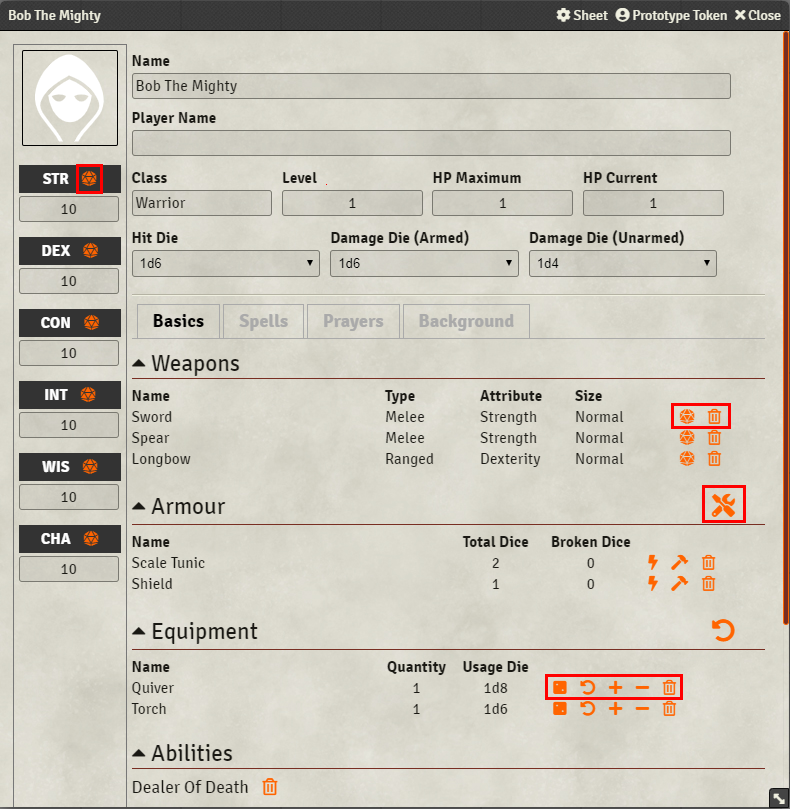
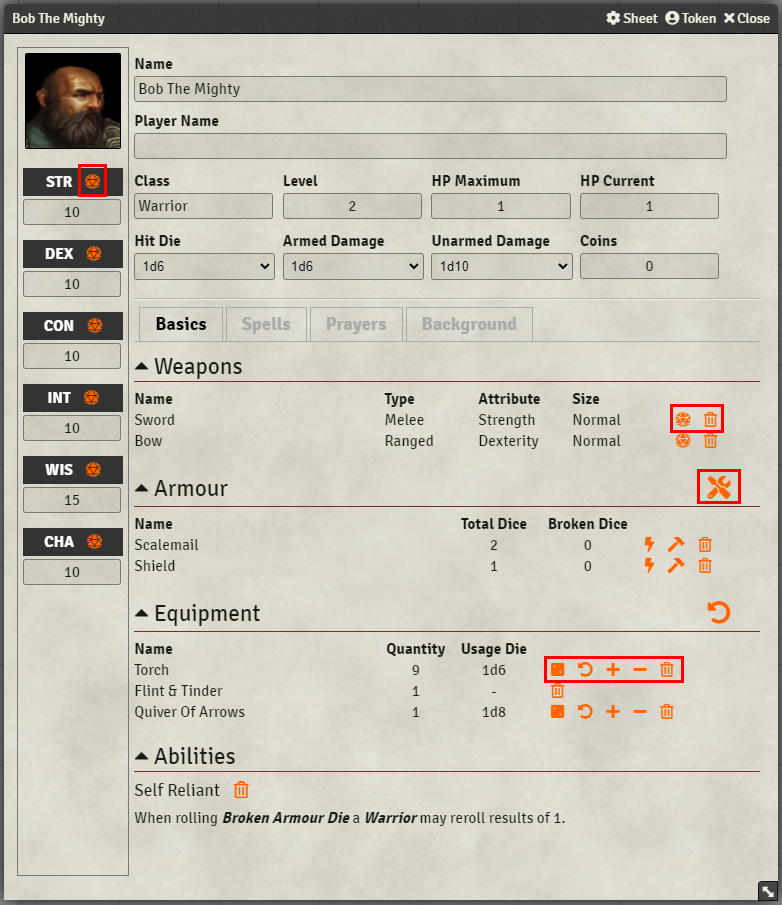
Changes for version 0.3.2.

diff --git a/module/chat_messages.js b/module/chat_messages.js
@@ -60,6 +60,9 @@ export function logAttackRoll(actorId, weaponId, shiftKey=false, ctrlKey=false) 
                         }
                     }
 
+                    if(game.dice3d) {
+                        game.dice3d.showForRoll(roll);
+                    }
                     showMessage(actor, "systems/bh2e/templates/messages/attack-roll.hbs", data);
                 });
         } else {
@@ -87,7 +90,7 @@ export function logAttributeTest(actorId, attribute, shiftKey=false, ctrlKey=fal
             roll = new Roll(generateDieRollFormula());
         }
         roll.evaluate()
-            .then(() => {
+            .then((roll) => {
                 data.roll = {formula: roll.formula,
                              labels:  {title: interpolate("bh2e.messages.titles.attributeTest", {attribute: data.attribute})},
                              result:  roll.total,
@@ -95,6 +98,9 @@ export function logAttributeTest(actorId, attribute, shiftKey=false, ctrlKey=fal
 
                 data.roll.success = (actor.data.data.attributes[attribute] > data.roll.result);
                 data.roll.labels.result = interpolate(data.roll.success ? "bh2e.messages.labels.success" : "bh2e.messages.labels.failure");
+                if(game.dice3d) {
+                    game.dice3d.showForRoll(roll);
+                }
 
                 showMessage(actor, "systems/bh2e/templates/messages/attribute-test.hbs", data);
             });
@@ -123,6 +129,9 @@ export function logDamageRoll(event) {
         roll.evaluate()
             .then(() => {
                 data.roll.result = roll.total;
+                if(game.dice3d) {
+                    game.dice3d.showForRoll(roll);
+                }
                 showMessage(actor, "systems/bh2e/templates/messages/damage-roll.hbs", data)
             });
     } else {
@@ -154,7 +163,11 @@ export function logUsageDieRoll(itemId) {
 
                 roll.evaluate()
                     .then(() => {
-                message.roll.formula = roll.formula;
+                        if(game.dice3d) {
+                            game.dice3d.showForRoll(roll);
+                        }
+
+                        message.roll.formula = roll.formula;
                         message.roll.result  = roll.total;
 
                         if(roll.total < 3) {

diff --git a/bh2e.js b/bh2e.js
@@ -41,6 +41,27 @@ async function preloadHandlebarsTemplates() {
 async function runMigrations() {
     console.log("Running migrations...");
     updateCreatureHitPoints(game.actors);
+    updateCharacterCoins(game.actors);
+}
+
+async function updateCharacterCoins(actors) {
+    actors.forEach((actor) => {
+        if(actor.type === "character") {
+            let coins  = actor.data.data.coins;
+            let update = false;
+
+            console.log(`Checking if '${actor.name}' needs a coins update.`);
+            if(!coins || !Number.isNumeric(coins)) {
+                coins  = (coins ? parseInt(coins) : 0);
+                update = true;
+            }
+
+            if(update) {
+                console.log(`Updating coins for '${actor.name}'.`);
+                actor.update({data: {coins: coins}});
+            }
+        }
+    });
 }
 
 async function updateCreatureHitPoints(actors) {

diff --git a/templates/sheets/character-sheet.html b/templates/sheets/character-sheet.html
@@ -35,7 +35,7 @@
                 </field>
             </div>
 
-            <div class="bh2e-grid bh2e-grid-3-col">
+            <div class="bh2e-grid bh2e-grid-4-col">
                 <field class="bh2e-field">
                     <label for="data.hitDie" class="bh2e-label">{{localize "bh2e.fields.labels.hitDie"}}</label>
                     <select name="data.hitDie" class="bh2e-select">
@@ -67,6 +67,11 @@
                   {{/each}}
                   {{/select}}
                     </select>
+                </field>
+
+                <field class="bh2e-field">
+                    <label class="bh2e-label" for="data.coins">{{localize "bh2e.fields.labels.coinsValue"}}</label>
+                    <input style="text-align: center;" type="number" name="data.coins" value="{{data.coins}}" />
                 </field>
             </div>
 

diff --git a/module/magic.js b/module/magic.js
@@ -105,11 +105,15 @@ function invokeMagic(magicId, caster) {
     attributeTest = new Roll(formula);
 
     return(attributeTest.roll()
-            .then(() => {
+            .then((roll) => {
                 result.attribute     = attribute;
                 result.attributeRoll = attributeTest.total;
                 result.formula       = attributeTest.formula;
                 result.successful    = result.attributeRoll < caster.data.data.attributes[attribute];
+
+                if(game.dice3d) {
+                    game.dice3d.showForRoll(roll);
+                }
                 return(result);
             }));
 }

diff --git a/module/bh2e_combat.js b/module/bh2e_combat.js
@@ -139,6 +139,9 @@ export default class BH2eCombat extends Combat {
         
                         return(roll.evaluate()
                                    .then(() => {
+                                       if(game.dice3d) {
+                                           game.dice3d.showForRoll(roll);
+                                       }
                                        return({combatant: combatant, id: id, initiative: (roll.total < dexterity ? 1 : 3), roll: roll});
                                    }));
                     } else {
